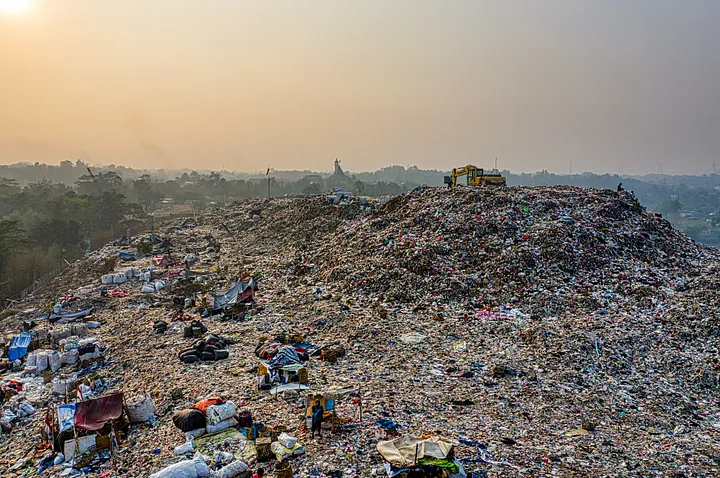
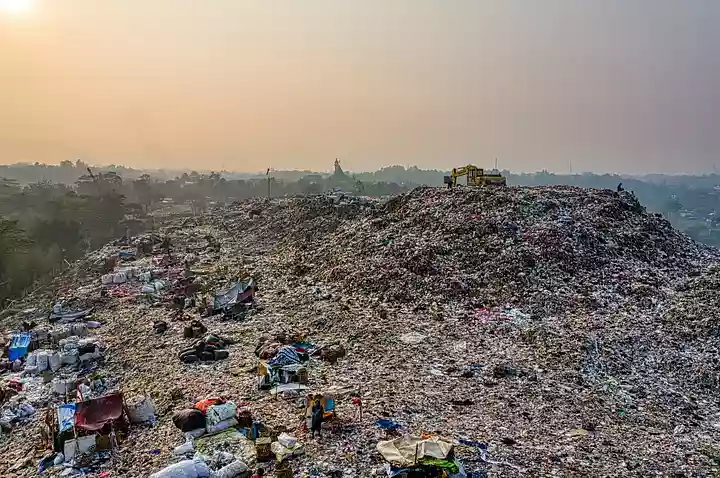
Optimizations

Changed region(s): [[0.0, 0.3515, 1.0, 1.0]]

diff --git a/index.html b/index.html
@@ -56,7 +56,7 @@ title: logo
 
 <div class="ribbon l-box-lrg pure-g">
     <div class="l-box is-center pure-u-1 pure-u-md-1-2 pure-u-lg-2-5 outer-horizontal-align">
-        <img width="256" height="256" alt="Photo de Guillaume Wolf" class="pure-img-responsive round-image inner-horizontal-align" src="assets/img/guillaume-wolf.jpg" loading="lazy">
+        <img width="256" height="256" alt="Photo de Guillaume Wolf" class="pure-img-responsive round-image inner-horizontal-align" src="assets/img/guillaume-wolf.webp" loading="lazy">
     </div>
     <div class="pure-u-1 pure-u-md-1-2 pure-u-lg-3-5">
 

diff --git a/_sass/blog.scss b/_sass/blog.scss
@@ -43,6 +43,8 @@
 
 
 .post{
+	max-width: 800px;
+	margin: auto;
 	p{
 		width:100%
 	}
@@ -50,7 +52,7 @@
 		margin-left: auto;  
 		margin-right: auto; 
 		display: block;
-		max-width: 100%;
+		max-width: 720px;
 	}
 	em{
 		display: block;

diff --git a/assets/css/common.scss b/assets/css/common.scss
@@ -4,6 +4,3 @@
 @import "normalise";
 @import "pure";
 @import "common";
-@import "icomoon";
-@import "animatopy";
-

diff --git a/assets/css/home.scss b/assets/css/home.scss
@@ -2,3 +2,5 @@
 ---
 
 @import "home";
+@import "icomoon";
+@import "animatopy";

diff --git a/_posts/2023-09-16-Impact-environnemental-numerique.md b/_posts/2023-09-16-Impact-environnemental-numerique.md
@@ -2,7 +2,7 @@
 title: L'impact du numérique sur l'environnement
 subhead: Le numérique pèse sur l'environnement au delà de se contribution au changement climatique
 tags: Climat Environnement Pollution Eau
-thumbnail: /assets/img/posts/2023/Q3/thumb-decharge.jpg
+thumbnail: /assets/img/posts/2023/Q3/thumb-decharge.webp
 ---
 
 Quand on parle de l’impact environnemental du numérique, il y a un chiffre qui fait souvent régir. Il s’agit de la contribution aux gaz à effet de serre du numérique : 4% ([source](https://theshiftproject.org/wp-content/uploads/2018/11/Rapport-final-v8-WEB.pdf)).

diff --git a/_posts/2023-09-13-Masse_smartphone.md b/_posts/2023-09-13-Masse_smartphone.md
@@ -2,7 +2,7 @@
 title: La masse d’un smartphone
 subhead: Un smartphone pèse bien pour lourd sur l'environnement que dans votre main.
 tags: Smartphones Extraction Metaux Raffinage Environnement
-thumbnail: /assets/img/posts/2023/Q3/thumb-masse_smartphone.jpg
+thumbnail: /assets/img/posts/2023/Q3/thumb-masse_smartphone.webp
 ---
 
 On ne s’en rend pas compte, mais quand on répond à un appel téléphonique, nous réalisons une petite prouesse physique en soulevant plus de 200 kg.
